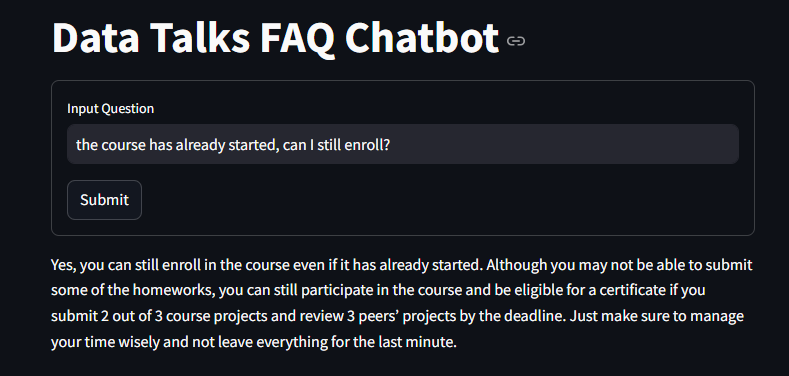
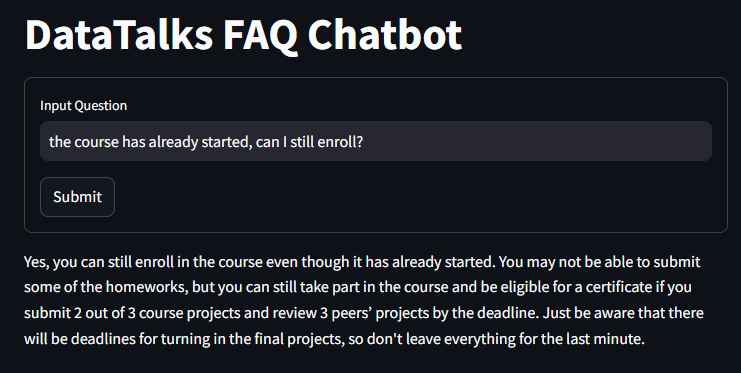
update files

diff --git a/app.py b/app.py
@@ -4,12 +4,12 @@ from mistralAI import build_prompt, llm
 import streamlit as st
 from stqdm import stqdm
 
-st.title("Data Talks FAQ Chatbot")
+st.title("DataTalks FAQ Chatbot")
 # Initialize session state for data and esclient
 def initialize_data():
     if 'data_initialized' not in st.session_state:
         st.session_state.documents = getData()
-        st.session_state.index_name = "course-9ues9t"
+        st.session_state.index_name = "course-questions"
         st.session_state.esclient = createIndex(st.session_state.index_name)
 
         with st.spinner('Preparing the data...'):
